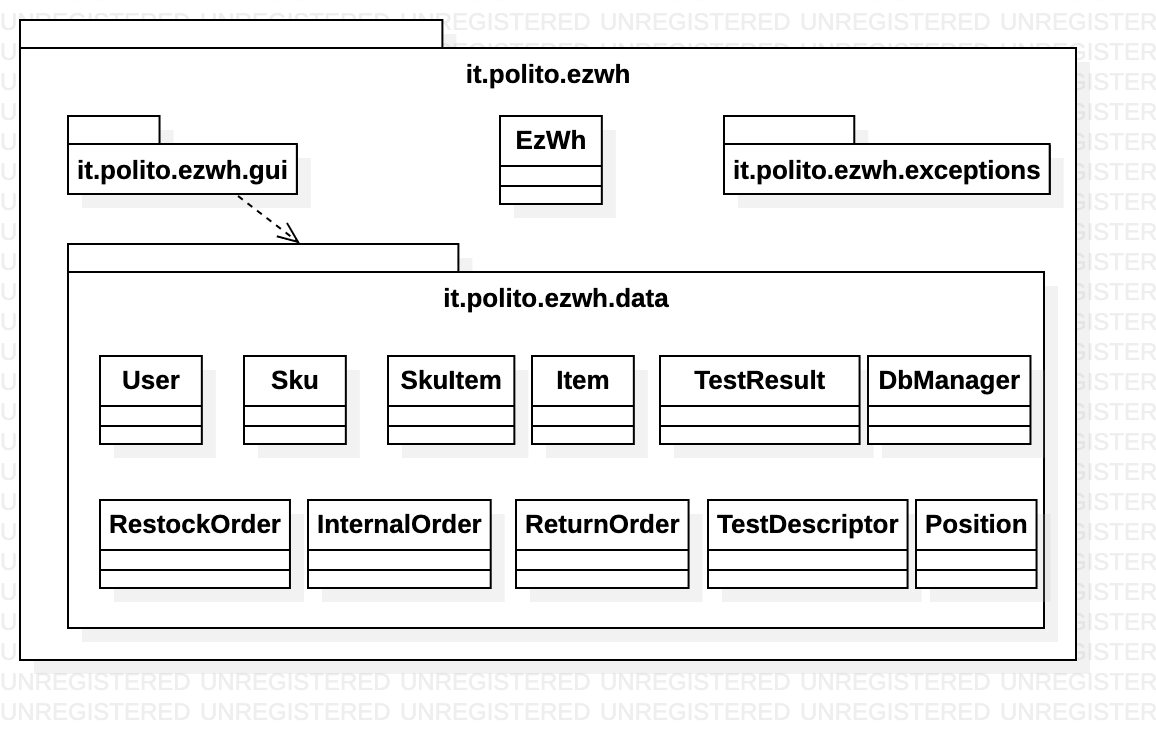
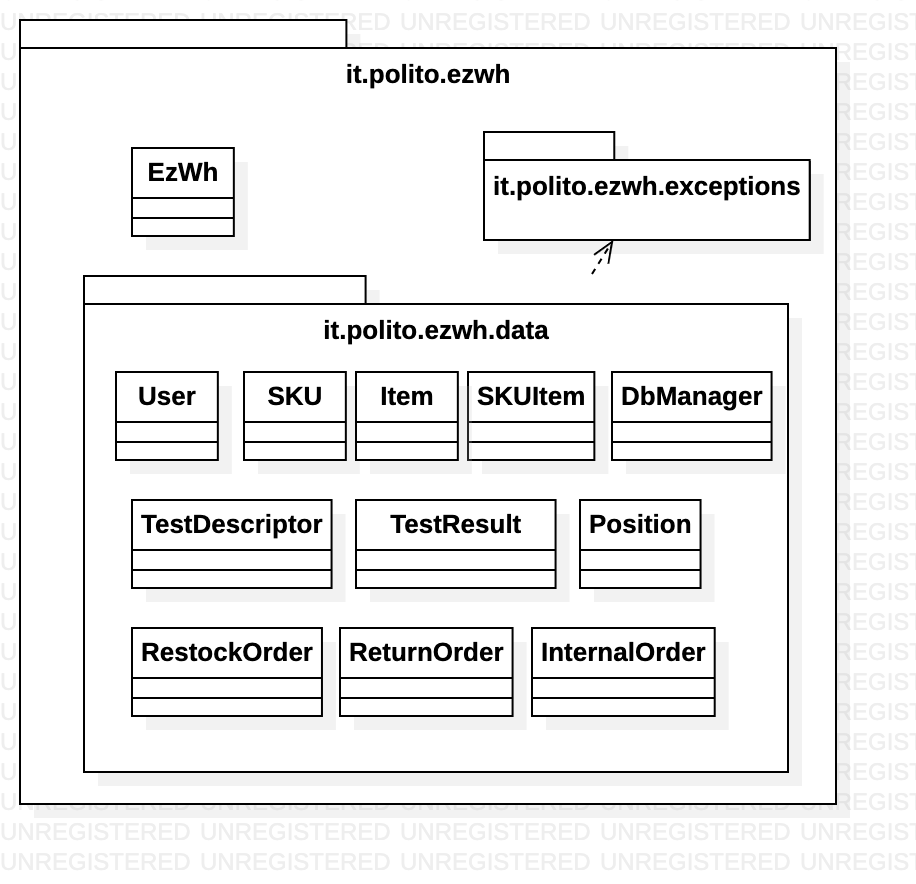
fix gui in diagram and description

Changed region(s): [[0.0306, 0.0, 0.9476, 0.9324], [0.0, 0.0311, 0.0306, 0.9014], [0.0611, 0.1554, 0.2751, 0.2797]]

diff --git a/DesignDocument.md b/DesignDocument.md
@@ -3,9 +3,9 @@
 
 Authors: Samuele Lo Truglio, Mario Mastrandrea, Kristi Gjerko
 
-Last-modified date: 25/04/2022
+Last-modified date: 27/04/2022
 
-Version: 0.4
+Version: 0.5
 
 
 | Version Number | Description                                                                                                 |
@@ -15,7 +15,7 @@ Version: 0.4
 |      0.3       | Added verification sequence diagrams                                                                        |
 |      0.35      | Updated verification sequence diagrams                                                                      |
 |      0.4       | Added low level class diagram                                                                               |
-|                |                                                                                                             |
+|      0.5       | fixes on high level design                                                                                  |
 
 
 # Contents
@@ -44,7 +44,6 @@ The high level design is composed by a set of **layers**: *GUI (front-end), Appl
 The application is composed of a main package and a set of subpackages, described by the following bulleted list:
 
 * it.polito.ezwh (the main package) contains the main application, in particular the façade
-* it.polito.ezwh.gui contains the graphical user interface
 * it.polito.ezwh.data contains the data structures used by the application and the database access
 * it.polito.ezwh.exceptions contains the code used by the application to handle exceptions triggered by the user
 
@@ -52,6 +51,9 @@ The EzWh application follows the **MVC** (Model-View-Controller) architectural p
 - Model -> all the classes in *data* subpackage where are represented the data structures
 - View -> GUI (front-end)
 - Controller -> *EzWh* - the class exposing the APIs of the app back-end, that performs interaction on the data objects and manages user inputs from the *View*.
+
+Note that GUI is not part of the *EzWh* package, but it is **a separate project**, so that can be developed independently of the *EzWh* package out of the *EzWh* repository. 
+
 
 # Low level design
 In the following diagram, the classes of the high level design are exploded in the low level design.
@@ -67,15 +69,15 @@ The *DbManager* class complies with **Repository Pattern**, so it represents the
 
 # Verification traceability matrix
 
-|  FR   |  SKU  | SKUItem | Position | TestDescriptor | TestResult | User  | RestockOrder | ReturnOrder | InternalOrder | Item  | EzWh  | DbManager|
-| :---: | :---: | :-----: | :------: | :------------: | :--------: | :---: | :----------: | :---------: | :-----------: | :---: | :---: | :---:|
-|  FR1  |       |         |          |                |            |   X   |              |             |               |       |   X   |   X   |
-|  FR2  |   X   |         |          |                |            |       |              |             |               |       |   X   | X   |
-|  FR3  |       |         |    X     |       X        |     X      |       |              |             |               |       |   X   | X   |
-|  FR4  |       |         |          |                |            |   X   |              |             |               |       |   X   | X   |
-|  FR5  |   X   |    X    |          |                |     X      |   X   |      X       |      X      |               |       |   X   | X   |
-|  FR6  |   X   |    X    |          |                |            |       |              |             |       X       |       |   X   | X   |
-|  FR7  |       |         |          |                |            |       |              |             |               |   X   |   X   | X   |
+|  FR   |  SKU  | SKUItem | Position | TestDescriptor | TestResult | User  | RestockOrder | ReturnOrder | InternalOrder | Item  | EzWh  | DbManager |
+| :---: | :---: | :-----: | :------: | :------------: | :--------: | :---: | :----------: | :---------: | :-----------: | :---: | :---: | :-------: |
+|  FR1  |       |         |          |                |            |   X   |              |             |               |       |   X   |     X     |
+|  FR2  |   X   |         |          |                |            |       |              |             |               |       |   X   |     X     |
+|  FR3  |       |         |    X     |       X        |     X      |       |              |             |               |       |   X   |     X     |
+|  FR4  |       |         |          |                |            |   X   |              |             |               |       |   X   |     X     |
+|  FR5  |   X   |    X    |          |                |     X      |   X   |      X       |      X      |               |       |   X   |     X     |
+|  FR6  |   X   |    X    |          |                |            |       |              |             |       X       |       |   X   |     X     |
+|  FR7  |       |         |          |                |            |       |              |             |               |   X   |   X   |     X     |
 
 
 # Verification sequence diagrams 
